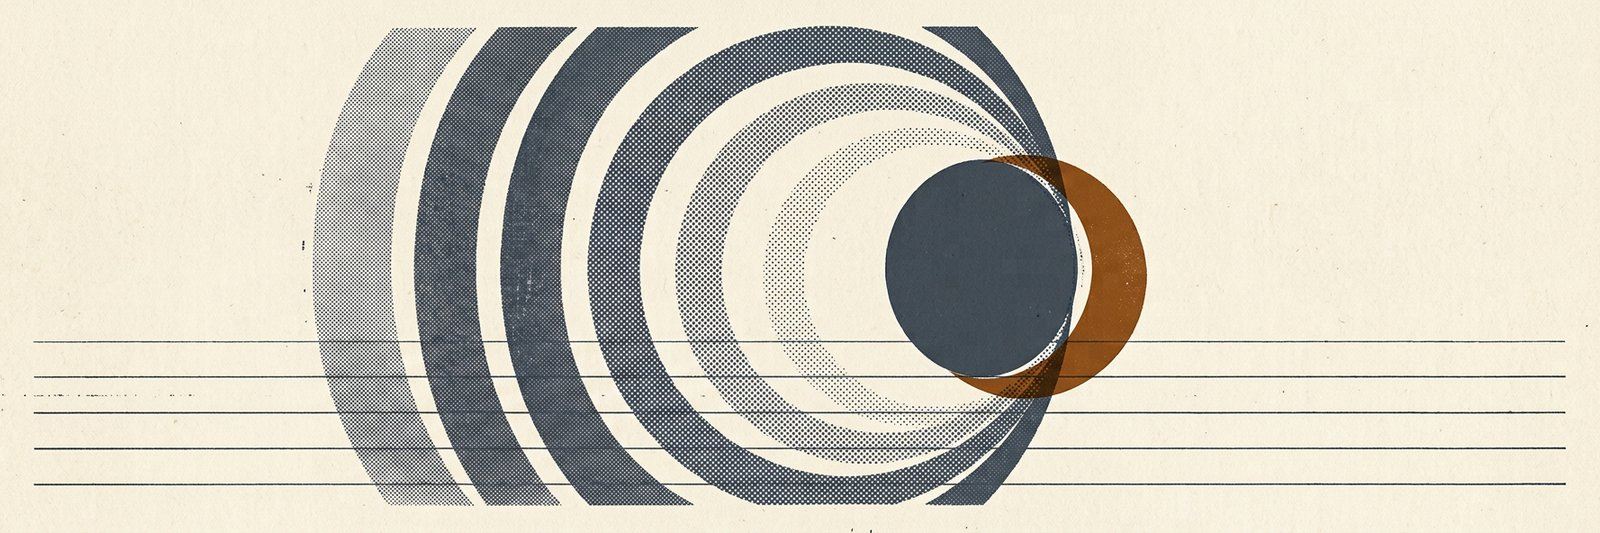
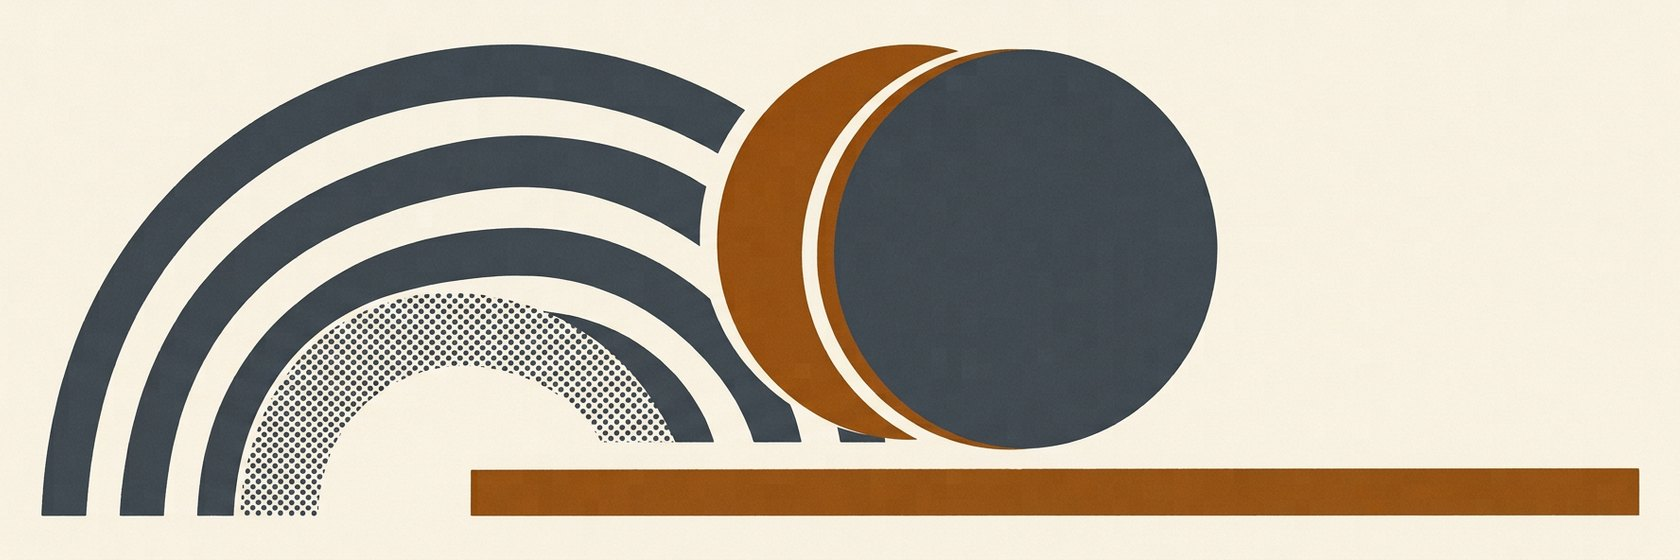
Выпуск №4.14: обложки вернули вес
Прошлая версия арта была слишком разреженной: тонкие линии
и пустота вместо форм, покрытие краской всего 24%.
Ощущалось дёшево и выпадало из концепции.

Перерисовано с плотными формами: массивные фигуры, заливка
целыми плоскостями, покрытие 38-79%. Смещение краски,
halftone-растр и чистая фактура сохранены.

- обложка выпуска: покрытие 24% → 68%
- пять полос-заставок в той же плотности
- пропорция заставок приведена к 3:1 под реальный арт
- разделу «Модели» добавлена своя заставка

diff --git a/index.html b/index.html
@@ -273,6 +273,10 @@
       На обложку
     </button>
     <div class="opener">
+      <div class="opener-art">
+        <picture><source srcset="art/band-models.webp" type="image/webp">
+        <img src="art/band-models.jpg" alt="" loading="lazy" decoding="async"></picture>
+      </div>
       <div class="opener-kicker"><span class="sep"></span>Раздел 03 · портреты</div>
       <h2 id="mdTitle">Двенадцать моделей крупным планом</h2>
       <p class="lead">За что берут, какие параметры реально решают, где обожжёшься и с чем связать. В конце каждого портрета — готовый промпт, который копируется одной кнопкой.</p>

diff --git a/assets/css/journal.css b/assets/css/journal.css
@@ -443,7 +443,7 @@ h1[tabindex="-1"]:focus-visible,h2[tabindex="-1"]:focus-visible{outline:none;}
 .opener-art{
   position:relative;overflow:hidden;
   border:1px solid var(--line);
-  aspect-ratio:4.2/1;margin-bottom:clamp(18px,3vw,28px);
+  aspect-ratio:3/1;margin-bottom:clamp(18px,3vw,28px);
   background:var(--paper-2);
 }
 .opener-art img{width:100%;height:100%;object-fit:cover;}
@@ -1304,7 +1304,7 @@ html[data-theme="dark"] .chip[data-fam][aria-pressed="true"]{color:var(--paper);
   border-bottom:3px solid var(--accent);
 }
 @media(max-width:600px){
-  .opener-art{aspect-ratio:3.4/1;}
+  .opener-art{aspect-ratio:2.4/1;}
 }
 
 /* шаги связки красятся своим семейством — маршрут читается цветом */
